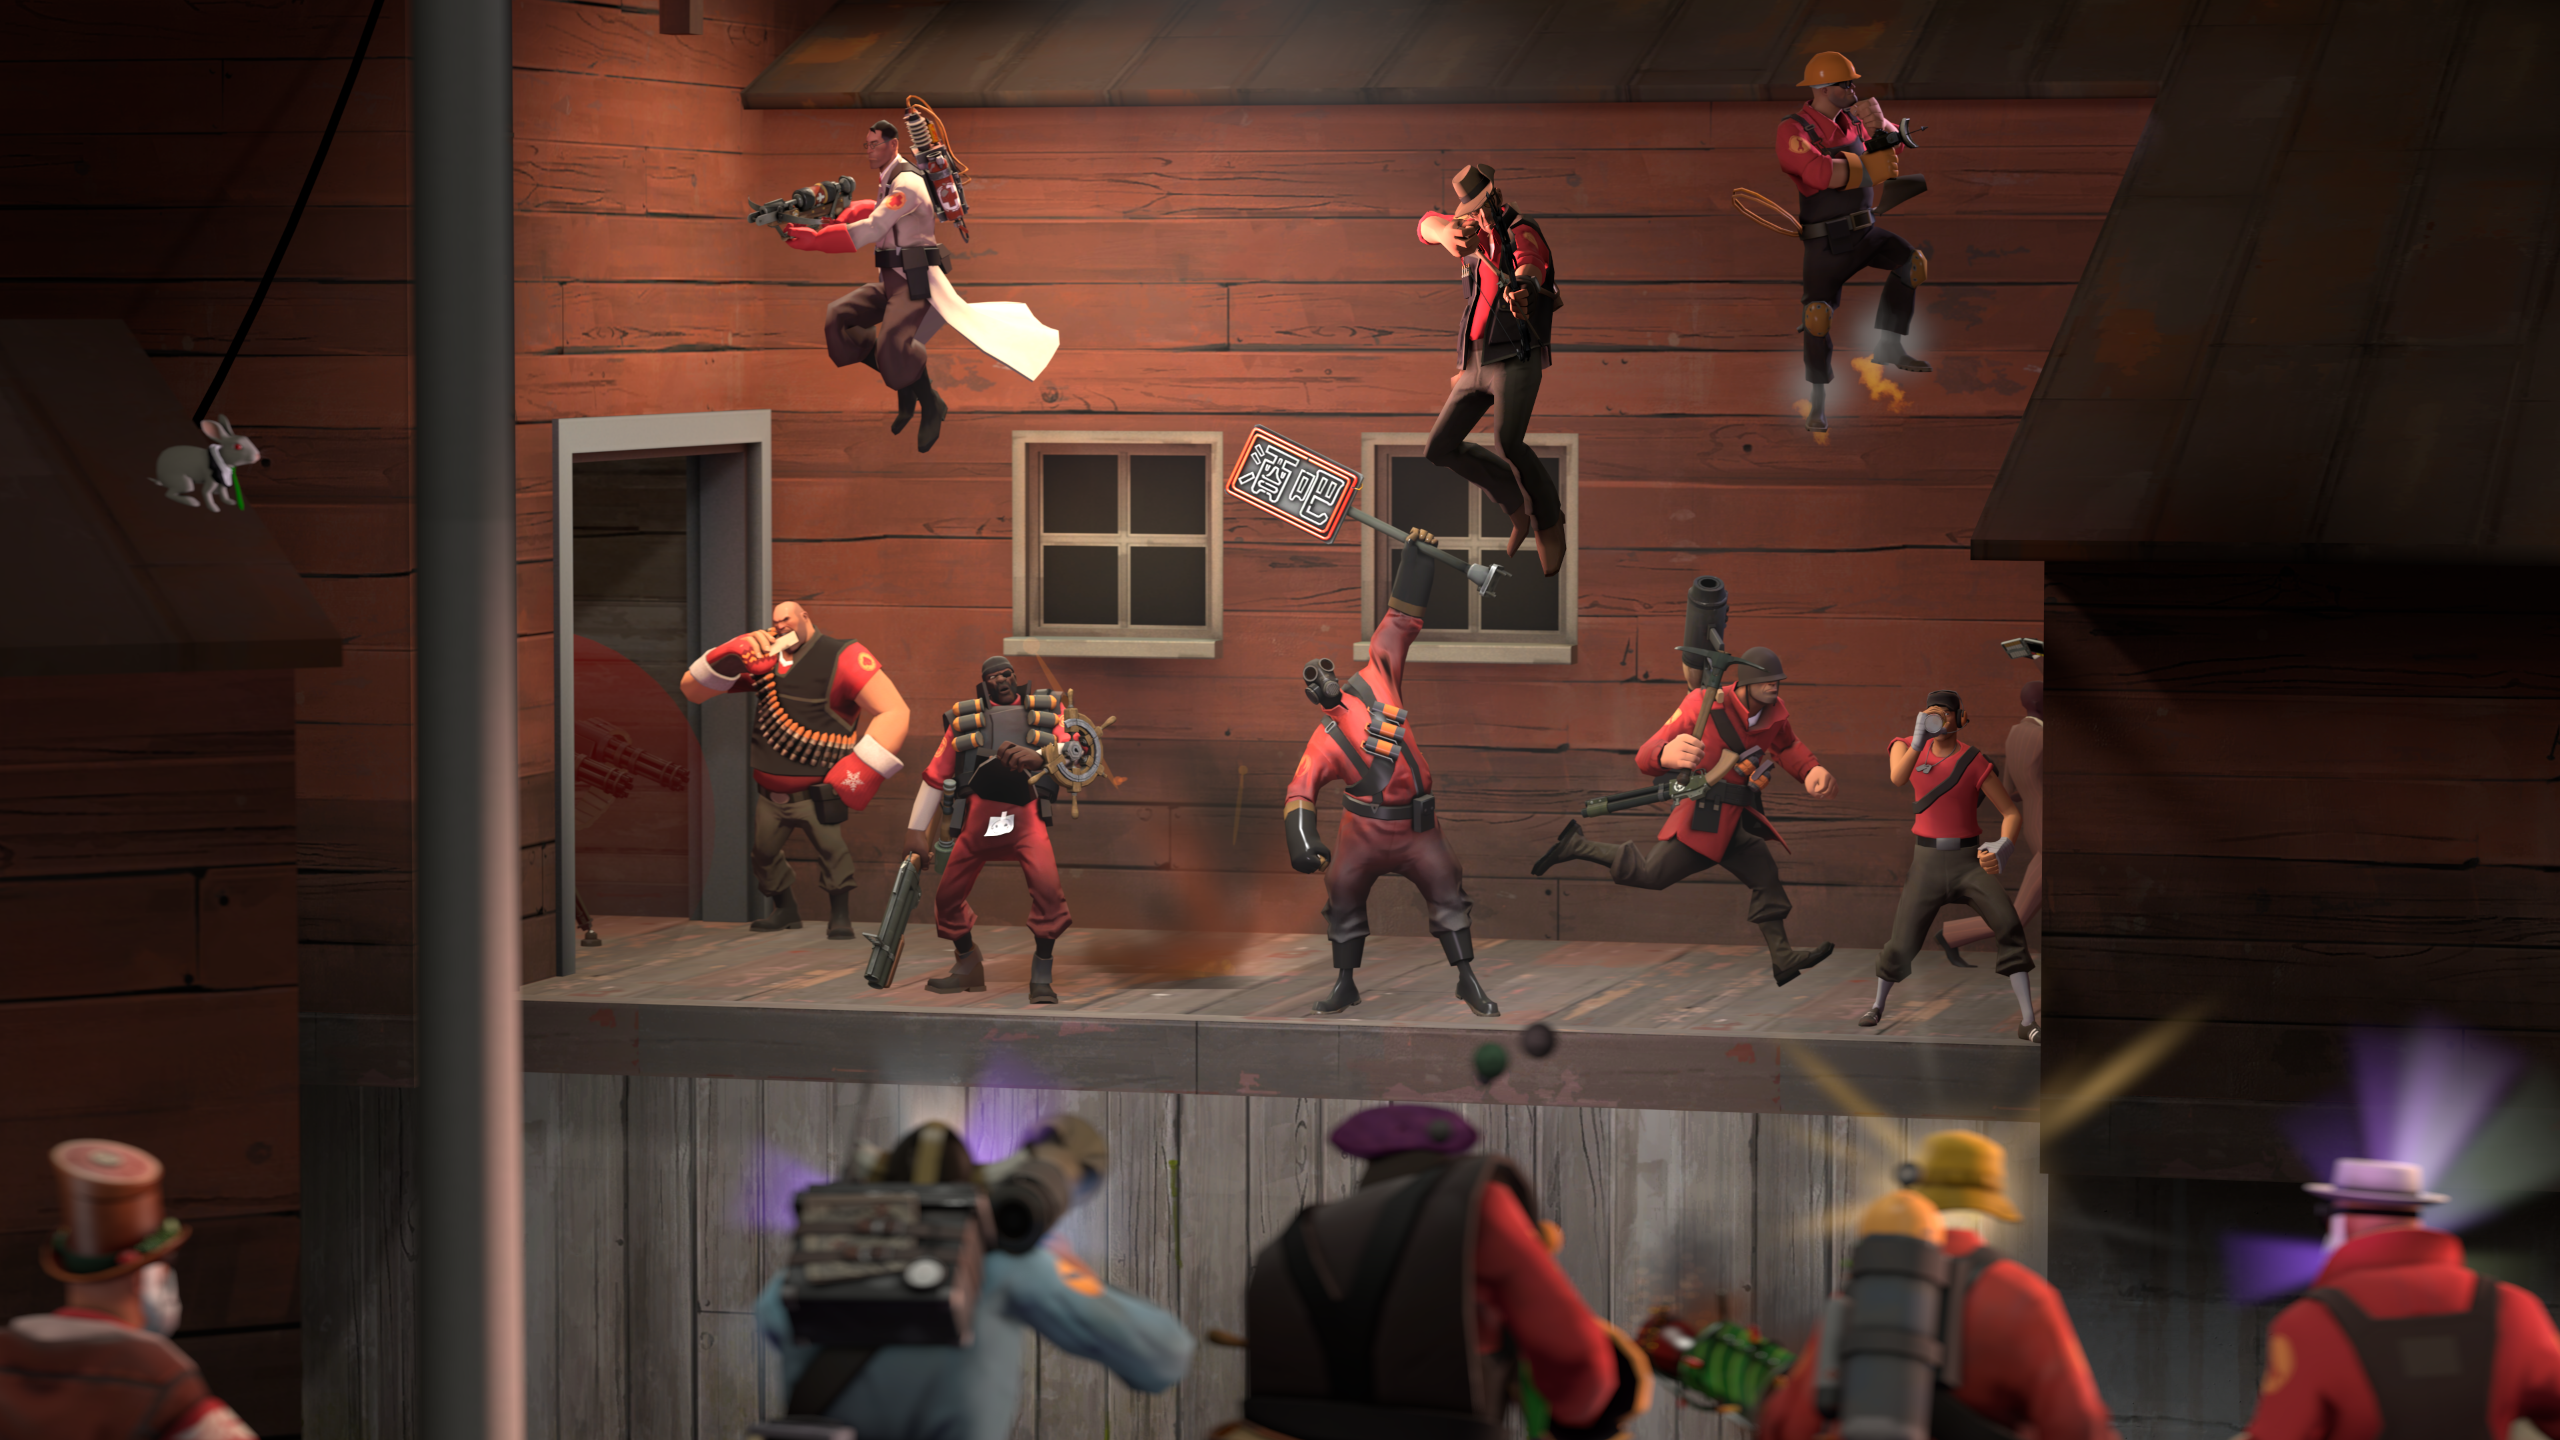
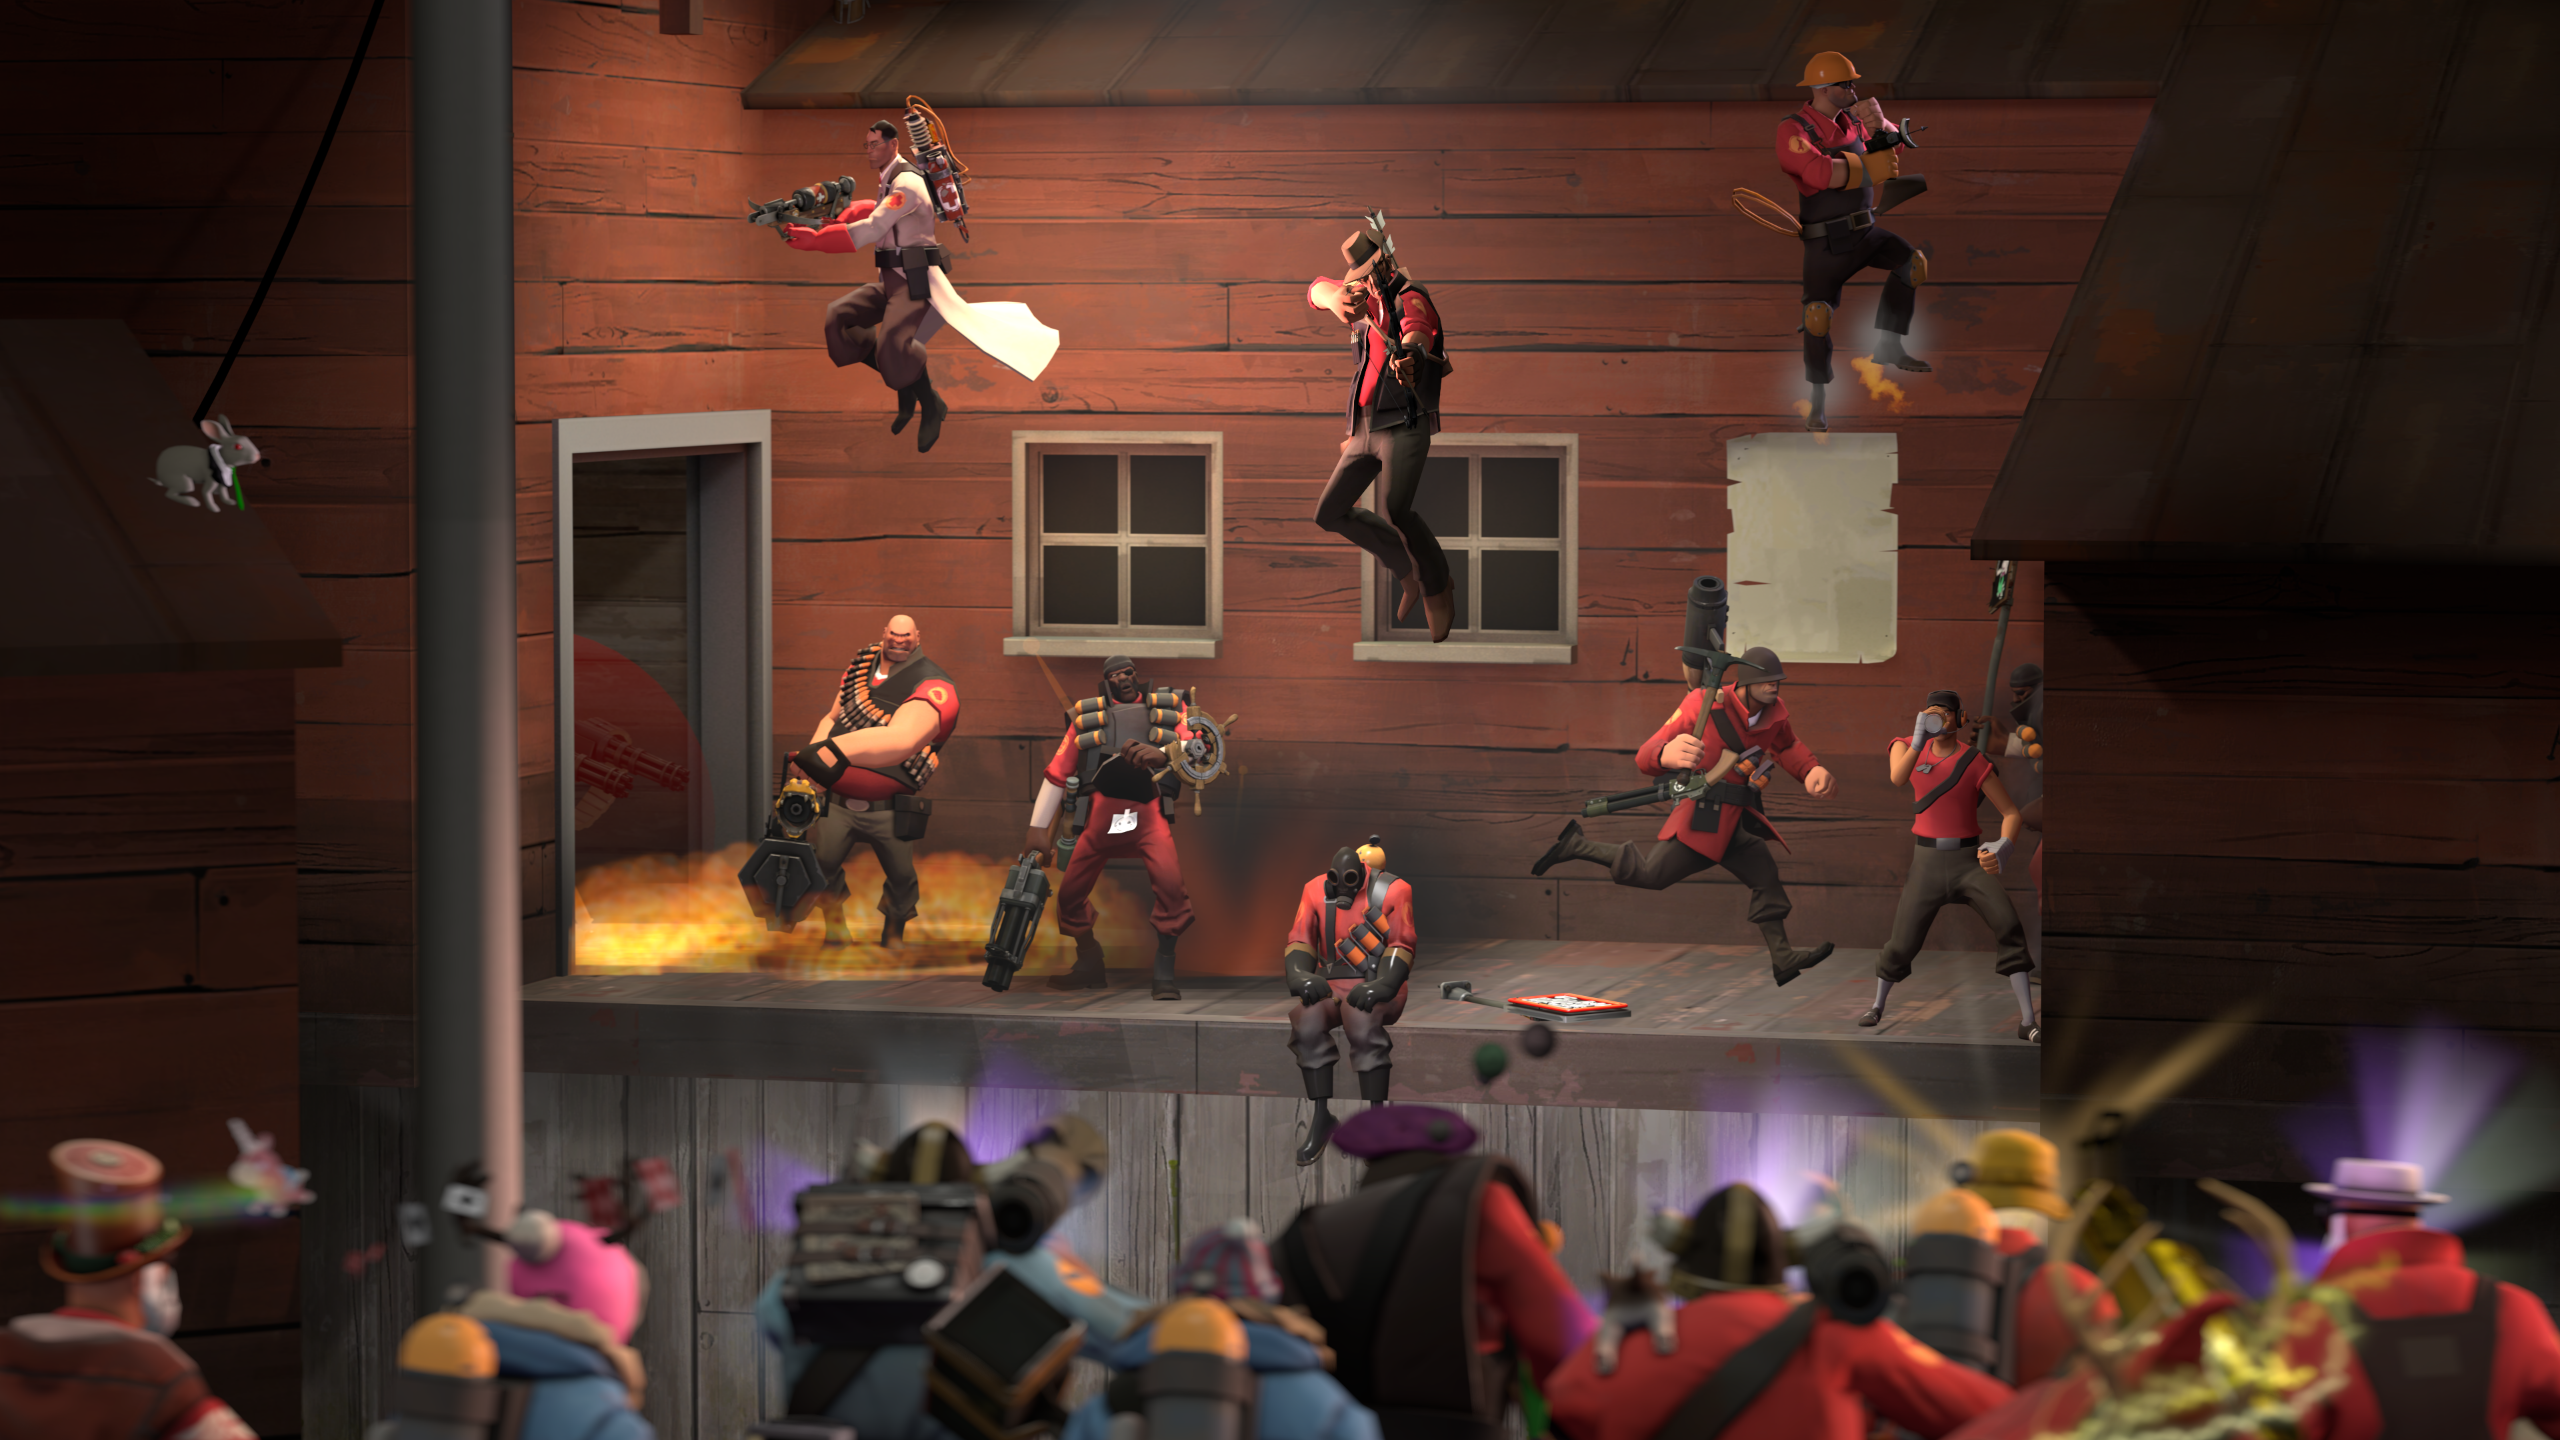
home poster update, funny fake copyright in timeline

diff --git a/teamfortress/timeline.html b/teamfortress/timeline.html
@@ -49,6 +49,9 @@
   Use the kick system to remove people who are ruining/obstructing the server.<br />
     Examples of who to kick: cheaters, people saying vile things to provoke, people AFK for more than 4 or 5 mins when the server is full with people wanting to join, mic spammers whom nobody asked for or the one who initiated the unfair kick in the first place. 
   </li>-->
+  <li class="tltp2">2022-10-15: <a href="https://bingsoyteamfortress.blogspot.com/2022/10/requiem-temporary-private-due-to.html" target="_blank">"[HtTDM-BC] requiem"</a> affected by false/fraud copyright claim (exploit where you illegally publish another's work as your own and claim revenue off people who use the track via <a href="https://support.google.com/youtube/answer/2797370" target="_blank">YouTube's automated content ID system</a>). Unlisted temporarily.<br />
+  <a href="https://bingsoyteamfortress.blogspot.com/2022/10/requiem-temporary-private-due-to.html" target="_blank">More info in this blogpost written the same day</a> (and it shows, might rewrite later but currently distracting self with working on TF2 stuff, can't let this train stop). No matter what, will have to strategize around this, especially don't want to limit video visibility next time (videos are made to be watched). Learning experience.
+  </li>
   <li class="tltp2">2022-09-26: Vote-kick responsibly. It's not nice to kick people for no valid reason,  but will that stop you? Will being unfaily kicked be enough for you to ease off the kick button or will it make you a more likely to kick someone with less consideration?
   </li>
   <li>2022-09-16: <a href="https://bingsoyteamfortress.blogspot.com/2022/09/ads-enabled-youtube-monetization.html" target="_blank">Ads enabled on most videos on Bing Soy Team Fortress YouTube channel.</a></li>
